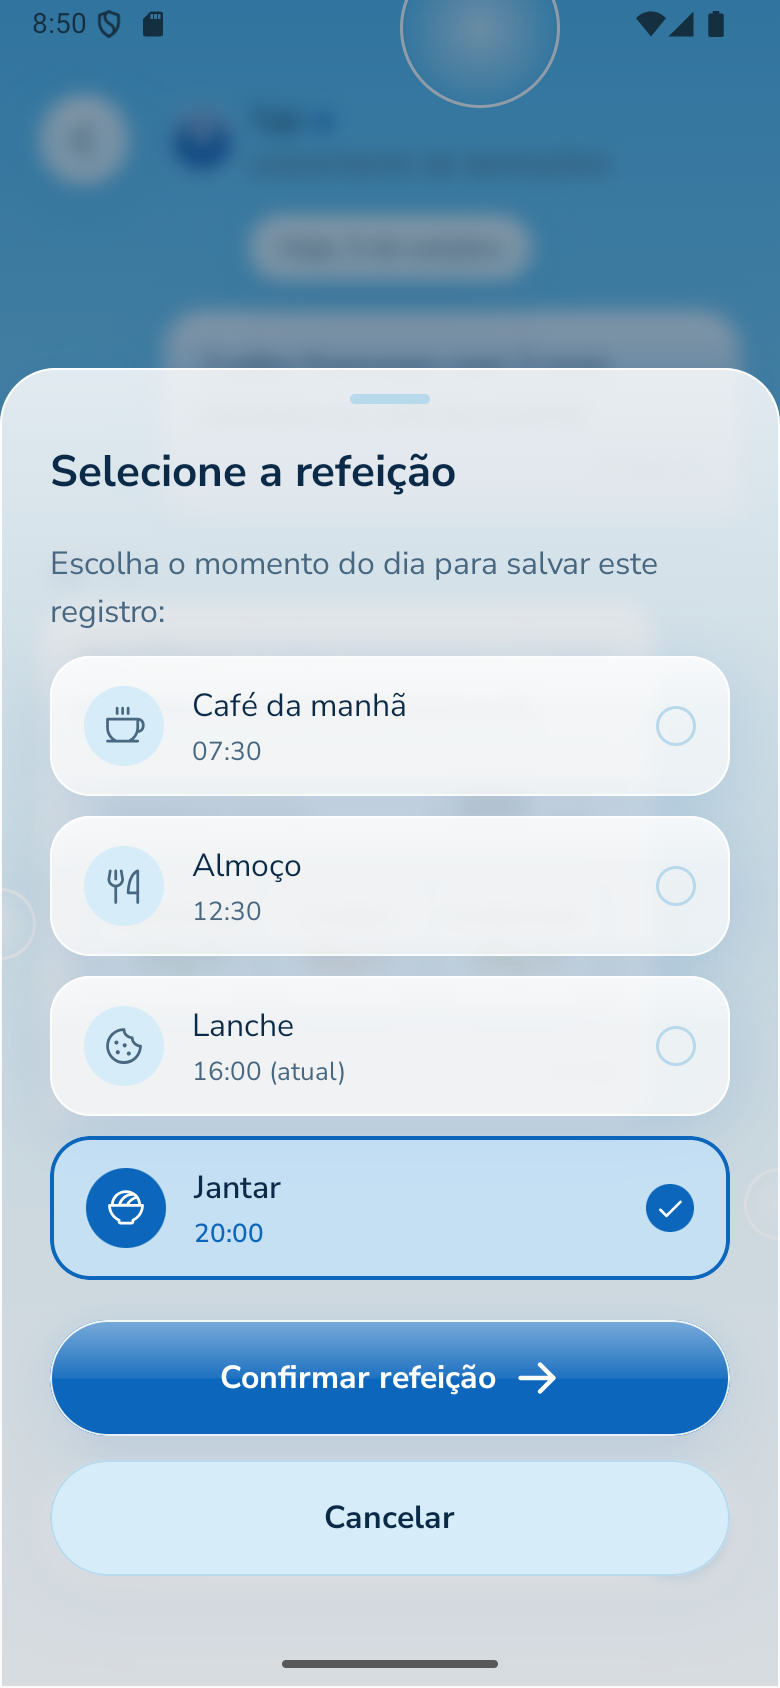
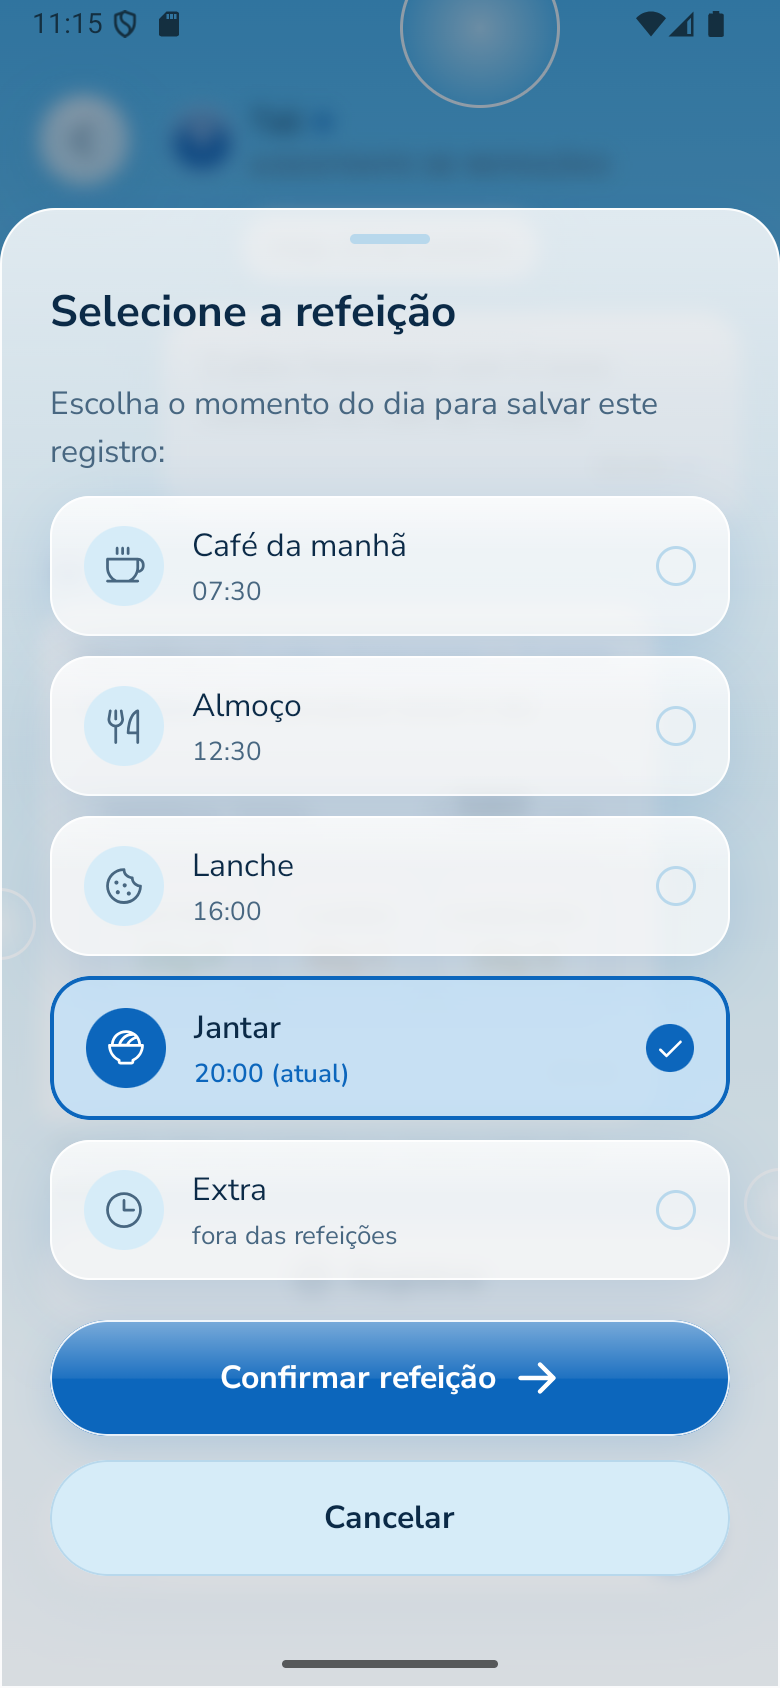
test(android): A73 gates chatT and chatGX on the D30 golds
GoldTest.chatT is a gate again (the sheet ends with the Extra row) and the
chatGX fixture carries the day balance. capture-chat.sh gains SCENES=a73
(chatT at 20:15, Jantar current); diff-gold follows the taller sheet;
capture-history.sh scrolls before the extra-on-timeline check.

diff --git a/apps/android/app/src/test/java/app/fibrai/android/ui/GoldTest.kt b/apps/android/app/src/test/java/app/fibrai/android/ui/GoldTest.kt
@@ -159,11 +159,11 @@ class GoldTest {
     @Test @Config(sdk = [34], qualifiers = "w390dp-h1406dp-xhdpi")
     fun homeE_light() = check("homeE", dark = false) { HomeHistory(HomeFixtures.home0, LocalDate.parse("2026-09-25"), kcal = emptyMap()) }
 
-    /** chatGX (D28, A72): an extra recorded by itself, its receipt and actions. */
-    @Test @Config(sdk = [34], qualifiers = "w390dp-h902dp-xhdpi")
+    /** chatGX (D28, A72; D30, A73): an extra recorded by itself, its receipt with the day balance and its actions. */
+    @Test @Config(sdk = [34], qualifiers = "w390dp-h943dp-xhdpi")
     fun chatGX_dark() = check("chatGX", dark = true) { Chat(ChatFixtures.chatGX) }
 
-    @Test @Config(sdk = [34], qualifiers = "w390dp-h902dp-xhdpi")
+    @Test @Config(sdk = [34], qualifiers = "w390dp-h943dp-xhdpi")
     fun chatGX_light() = check("chatGX", dark = false) { Chat(ChatFixtures.chatGX) }
 
     @Composable private fun HomeHistory(
@@ -212,15 +212,12 @@ class GoldTest {
     @Test @Config(sdk = [34], qualifiers = "w390dp-h844dp-xhdpi")
     fun chatQ_light() = check("chatQ", dark = false) { Chat(ChatFixtures.chatQ) }
 
-    /**
-     * chatT: A72 (ADR-058) adds the `Extra · fora das refeições` row at the end of the sheet; D28 kept the chatT gold without it
-     * (`Show extra` off). The spec wins (ADR-027): reported, not gated, until a design plan redraws chatT.
-     */
+    /** chatT (D30, A73): the Trocar sheet of a record, ending with the `Extra · fora das refeições` row (ADR-058). */
     @Test @Config(sdk = [34], qualifiers = "w390dp-h844dp-xhdpi")
-    fun chatT_dark() = check("chatT", dark = true, reportOnly = true) { Chat(ChatFixtures.chatT) }
+    fun chatT_dark() = check("chatT", dark = true) { Chat(ChatFixtures.chatT) }
 
     @Test @Config(sdk = [34], qualifiers = "w390dp-h844dp-xhdpi")
-    fun chatT_light() = check("chatT", dark = false, reportOnly = true) { Chat(ChatFixtures.chatT) }
+    fun chatT_light() = check("chatT", dark = false) { Chat(ChatFixtures.chatT) }
 
     /** A34: Substituir inside the conversation. */
     @Test @Config(sdk = [34], qualifiers = "w390dp-h844dp-xhdpi")

diff --git a/apps/android/app/src/test/java/app/fibrai/android/feature/chat/ChatFixtures.kt b/apps/android/app/src/test/java/app/fibrai/android/feature/chat/ChatFixtures.kt
@@ -75,7 +75,7 @@ object ChatFixtures {
         slots = slots,
     )
 
-    /** chatGX (D28, A72): an energy drink recorded by itself as an extra at 15:40, with the receipt actions. */
+    /** chatGX (D28, A72; D30, A73): an energy drink recorded by itself as an extra at 15:40, the day balance and the receipt actions. */
     val chatGX = ChatUiState(
         items = listOf(
             ChatItem.DateSeparator("Hoje, 3 de outubro"),
@@ -87,7 +87,7 @@ object ChatFixtures {
                 highlights = listOf("1 energético (350 ml)"),
                 estimate = EstimateView(160, 0, 40, 0, null, null),
             ),
-            ChatItem.Receipt(72, ReceiptKind.LOGGED, "extra", "15:40", 160, actions = recordActions, extra = true),
+            ChatItem.Receipt(72, ReceiptKind.LOGGED, "extra", "15:40", 160, actions = recordActions, extra = true, balance = "1.300 de 2.175 kcal · faltam 74 g de proteína"),
         ),
         emptyDay = false,
         slots = slots,

diff --git a/docs/qa/README.md b/docs/qa/README.md
@@ -63,7 +63,7 @@ A implementação de qualquer tela no client Android deve seguir este ciclo:
    ```bash
    adb shell wm size 780x1688 && adb shell wm density 320
    ```
-3. Capturar a tela pelo fluxo real (testTags viram resource-id) em `docs/qa/android/current/{theme}/<id>.png`. Onboarding (A71): fake + APK com `-PAPI_PUBLIC_URL=http://10.0.2.2:8765` + `tools/capture-onboarding.sh dark|light` (`splash`, `ob0`–`ob6` pelo chat real, a morte do processo no passo 9 que retoma no passo 9, um 500 forçado no fake que mostra `ob6` e **Tentar de novo** até `ob5`; os outros scripts chamam `QUICK=1`, que só faz o onboarding, sem capturas, e por isso também precisam do fake). Home (inclui interações): `tools/capture-home.sh dark|light`. Extras, faixa de 30 dias e dia anterior (A72: `home1`, `homeH`, `homeE`, `chatGX`, a entrada Extra do Trocar, um registro de ontem pelo Chat e uma captura de `homeW`, `homeC`, `homeK`, `homeP` com a faixa acima): fake + `tools/capture-history.sh dark|light`. Config (cfg, wipe, cfgS, cfgR + checagens de wipe/treino no Room e do reset: Room vazio, memória e fotos apagadas, lembretes cancelados, installation id mantido, O1 sem back stack): `tools/capture-config.sh dark|light`. Foto (chatA: anexo sem POST, ✕, troca, sair do Chat; chatF + galeria, câmera, 50 MP com EXIF → 2048 px < 2 MB, arquivo de 16 MB passa, WebP→JPEG): fake + `tools/capture-photo.sh dark|light` (AVD com `-camera-back virtualscene`). Substituir refeição dentro da conversa + Enter (A34, sem captura própria: o gold é o `chatU`): fake + `tools/capture-replace.sh dark|light`. Push (alarmes reais, Registrar/Pular, tela de bloqueio): `tools/capture-push.sh dark|light` (~6 min). Chat: `node tools/fake-chat-server.mjs` + APK com `-PAPI_PUBLIC_URL=http://10.0.2.2:8765` + `tools/capture-chat.sh dark|light` (`SCENES=v2` roda só onboarding + `chatS`, `chatR`, `chatM` do A29; `SCENES=a30` só onboarding + perguntas antes da estimativa, Forçar estimativa, teto de 3 rodadas, `chatQ` e `chatE` do A30, com o fake em `{"clarify": true}`; `SCENES=a32` só onboarding + histórico longo do A32: abre no fim sem rolagem (screenrecord), páginas de 20 até 60 dias, resposta com o fio rolado para cima sem pulo, câmera fecha o teclado; `SCENES=a34` só onboarding + registro autônomo do A34, com o fake em `{"record": "auto"|"ask"|"none"}` e `{"skip": "Jan"}`: registro sem toque, Excluir, Trocar refeição e Desfazer, Substituir dentro da conversa e Desfazer, Editar, Registrar e `Não registrado`, pulo por texto, outro dia sem registro, e `chatG`, `chatU`, `chatD` semeados; muda o relógio do aparelho por `cmd alarm set-time` para gravar o café em 3 dias passados e devolve o relógio automático no fim; `SCENES=a59` só onboarding + pulos ao lado de outras ações do A59, com o fake em `{"skips": ["Alm"]}`: refeição e pulo na mesma mensagem com dois recibos, pulo de refeição registrada com Excluir e pular, Desfazer, Manter registro e expiração no próximo envio, e `chatSK`, `chatSD` semeados; `SCENES=a60` só onboarding + A60: escolha acima da janela (`chatRB`, Pode passar sobrevive a recriar, Ajustar manda `fit_kcal`), respostas formatadas (`chatR`, `chatE`, `chatRK`, histórico e timeline sem marcadores, marcação quebrada literal), reserva (`chatRL`, recibo com a diferença ao plano, Desfazer devolve a reserva, `homeP`), tom em Config (`cfg`, `cfgT`, `profile.tone` no fio) e fechamentos de domingo 22:05 pelo alarme real (notificações, uma vez por dia e semana, `homeC`, `homeK`, sem rede e nova tentativa, cartão recolhido no dia seguinte); a O5 sai do `tools/capture-onboarding.sh`; `SCENES=a61` só onboarding + A61: as ações de um plano ficam abaixo dele e rolam com o fio enquanto o composer fica, toque longo seleciona (1), toque na resposta soma (2), toque no recibo não muda nada (`chatCP`), Copiar encerra a seleção e, com `PASTE=1`, o colar no composer traz as duas mensagens em texto puro (deixa o Gboard no modo de teclado físico até o AVD reiniciar sem salvar o snapshot), voltar e ✕ encerram). Captura de tela com rolagem (A61, Android 12+): `tools/capture-scroll.sh dark|light` abre Home (linha do tempo cheia e cartão de fechamento), Chat (fio maior que a tela) e Config, tira a captura do sistema, toca em Capture more / Capturar mais, confere que o editor de captura longa abre e salva; as imagens longas ficam fora do repositório. Manual, com o Android CLI (skill `android-cli`):
+3. Capturar a tela pelo fluxo real (testTags viram resource-id) em `docs/qa/android/current/{theme}/<id>.png`. Onboarding (A71): fake + APK com `-PAPI_PUBLIC_URL=http://10.0.2.2:8765` + `tools/capture-onboarding.sh dark|light` (`splash`, `ob0`–`ob6` pelo chat real, a morte do processo no passo 9 que retoma no passo 9, um 500 forçado no fake que mostra `ob6` e **Tentar de novo** até `ob5`; os outros scripts chamam `QUICK=1`, que só faz o onboarding, sem capturas, e por isso também precisam do fake). Home (inclui interações): `tools/capture-home.sh dark|light`. Extras, faixa de 30 dias e dia anterior (A72: `home1`, `homeH`, `homeE`, `chatGX`, a entrada Extra do Trocar, um registro de ontem pelo Chat e uma captura de `homeW`, `homeC`, `homeK`, `homeP` com a faixa acima): fake + `tools/capture-history.sh dark|light`. Config (cfg, wipe, cfgS, cfgR + checagens de wipe/treino no Room e do reset: Room vazio, memória e fotos apagadas, lembretes cancelados, installation id mantido, O1 sem back stack): `tools/capture-config.sh dark|light`. Foto (chatA: anexo sem POST, ✕, troca, sair do Chat; chatF + galeria, câmera, 50 MP com EXIF → 2048 px < 2 MB, arquivo de 16 MB passa, WebP→JPEG): fake + `tools/capture-photo.sh dark|light` (AVD com `-camera-back virtualscene`). Substituir refeição dentro da conversa + Enter (A34, sem captura própria: o gold é o `chatU`): fake + `tools/capture-replace.sh dark|light`. Push (alarmes reais, Registrar/Pular, tela de bloqueio): `tools/capture-push.sh dark|light` (~6 min). Chat: `node tools/fake-chat-server.mjs` + APK com `-PAPI_PUBLIC_URL=http://10.0.2.2:8765` + `tools/capture-chat.sh dark|light` (`SCENES=v2` roda só onboarding + `chatS`, `chatR`, `chatM` do A29; `SCENES=a30` só onboarding + perguntas antes da estimativa, Forçar estimativa, teto de 3 rodadas, `chatQ` e `chatE` do A30, com o fake em `{"clarify": true}`; `SCENES=a32` só onboarding + histórico longo do A32: abre no fim sem rolagem (screenrecord), páginas de 20 até 60 dias, resposta com o fio rolado para cima sem pulo, câmera fecha o teclado; `SCENES=a34` só onboarding + registro autônomo do A34, com o fake em `{"record": "auto"|"ask"|"none"}` e `{"skip": "Jan"}`: registro sem toque, Excluir, Trocar refeição e Desfazer, Substituir dentro da conversa e Desfazer, Editar, Registrar e `Não registrado`, pulo por texto, outro dia sem registro, e `chatG`, `chatU`, `chatD` semeados; muda o relógio do aparelho por `cmd alarm set-time` para gravar o café em 3 dias passados e devolve o relógio automático no fim; `SCENES=a59` só onboarding + pulos ao lado de outras ações do A59, com o fake em `{"skips": ["Alm"]}`: refeição e pulo na mesma mensagem com dois recibos, pulo de refeição registrada com Excluir e pular, Desfazer, Manter registro e expiração no próximo envio, e `chatSK`, `chatSD` semeados; `SCENES=a60` só onboarding + A60: escolha acima da janela (`chatRB`, Pode passar sobrevive a recriar, Ajustar manda `fit_kcal`), respostas formatadas (`chatR`, `chatE`, `chatRK`, histórico e timeline sem marcadores, marcação quebrada literal), reserva (`chatRL`, recibo com a diferença ao plano, Desfazer devolve a reserva, `homeP`), tom em Config (`cfg`, `cfgT`, `profile.tone` no fio) e fechamentos de domingo 22:05 pelo alarme real (notificações, uma vez por dia e semana, `homeC`, `homeK`, sem rede e nova tentativa, cartão recolhido no dia seguinte); a O5 sai do `tools/capture-onboarding.sh`; `SCENES=a61` só onboarding + A61: as ações de um plano ficam abaixo dele e rolam com o fio enquanto o composer fica, toque longo seleciona (1), toque na resposta soma (2), toque no recibo não muda nada (`chatCP`), Copiar encerra a seleção e, com `PASTE=1`, o colar no composer traz as duas mensagens em texto puro (deixa o Gboard no modo de teclado físico até o AVD reiniciar sem salvar o snapshot), voltar e ✕ encerram; `SCENES=a73` só onboarding + `chatT` semeado, a folha Trocar que termina na linha Extra). Captura de tela com rolagem (A61, Android 12+): `tools/capture-scroll.sh dark|light` abre Home (linha do tempo cheia e cartão de fechamento), Chat (fio maior que a tela) e Config, tira a captura do sistema, toca em Capture more / Capturar mais, confere que o editor de captura longa abre e salva; as imagens longas ficam fora do repositório. Manual, com o Android CLI (skill `android-cli`):
    ```bash
    android screen capture -o docs/qa/android/current/{theme}/<id>.png
    ```

diff --git a/docs/android/plans/completed/a73-chat-gold-gates.md b/docs/android/plans/completed/a73-chat-gold-gates.md
@@ -1,0 +1,68 @@
+# Plan — A73 `chatT` and `chatGX` gated again on the D30 golds
+
+- Status: Concluído
+- Date: 10/10/2026
+- Owning context: `android`
+- Affected code: `apps/android/` tests only (`ui/GoldTest.kt`, `feature/chat/ChatFixtures.kt`), the capture tooling (`tools/capture-history.sh`, `tools/diff-gold.mjs`), `docs/qa/android/current/{dark,light}/{chatT,chatGX}.png`. No production code.
+- Prerequisites: [D30](../../../design/plans/completed/d30-chat-extra-row-and-balance-line.md) `Concluído` (the new `chatT` and `chatGX` golds exported); [A72](../pending_manual_validation/a72-extras-and-history.md) merged.
+
+Authorization, lifecycle, cancellation and deferral: `docs/sdd/README.md`. Approval: `Aprovo o plano docs/android/plans/a73-chat-gold-gates.md. Implemente o plano aprovado.`
+
+## Objective
+
+End the two spec-over-gold conflicts that A72 left open ([ADR-027](../../adrs/ADR-027-golds-divergentes.md)): `GoldTest.chatT` is report-only since the Trocar sheet gained the `Extra · fora das refeições` row, and the `chatGX` emulator tail is over 2 % because the receipt carries the day balance line. With the D30 golds both become gates again, so a regression in the sheet or the extra receipt fails the build instead of being reported.
+
+## Scope
+
+1. **`GoldTest.chatT`**: `reportOnly` removed in both themes; the KDoc that explains the report goes.
+2. **`ChatFixtures.chatGX`**: the receipt gains the balance of the D30 sample (`1.300 de 2.175 kcal · faltam 74 g de proteína`, or the copy D30 hands over), so `GoldTest.chatGX` draws what the app shows; the frame height follows the new gold.
+3. **Emulator** (fake server, `tools/capture-history.sh dark|light`):
+   - the scene that opens Trocar on the extra receipt saves it as `chatT` in `docs/qa/android/current/{theme}/` (today an evidence file);
+   - `tools/diff-gold.mjs`: the `chatT` footer region follows the taller sheet; `chatGX` keeps the header gate and its thread tail passes within 2 %;
+   - the seeded day makes the balance line read the gold copy, or the difference is the number only and stays within 2 %.
+4. **No spec change:** the Chat spec already describes both states; the QA README inventory keeps the same ids.
+
+## Out of scope
+
+- Production code, behavior or copy. Other golds (`chatTI`, `chatF`, `chatG`, `ob1`). Model calls (0 in this plan).
+
+## Validation
+
+1. `./gradlew :app:testDevDebugUnitTest` and `:app:verifyRoborazziDevDebug`: pass, with `GoldTest.chatT_*` and `GoldTest.chatGX_*` gating (blurred diff ≤ 2 %).
+2. Emulator, both themes, only the two touched states (partial rule): `chatT` and `chatGX` captured and `node tools/diff-gold.mjs` within 2 %.
+3. `node tools/check-docs.mjs` passes.
+
+## Results
+
+Delivered on 10/10/2026, right after the D30 export ([#245](https://github.com/nicolasteixeira3856/dieta-bot/pull/245)).
+
+- **`GoldTest.chatT`** gates again in both themes (`reportOnly` and its KDoc removed).
+- **`ChatFixtures.chatGX`**: the receipt carries `1.300 de 2.175 kcal · faltam 74 g de proteína`; `GoldTest.chatGX` renders at 943 dp, the new gold height.
+- **Capture tooling.**
+  - `tools/capture-chat.sh` gains `SCENES=a73`: quick onboarding, then the seeded gold conversation with no slot, Registrar opens Trocar, the last meal is picked and the screen is saved as `chatT`. `seed_gold` moved out of the full-run block so the scene can call it. Deviation: the plan put this capture in `capture-history.sh`, but the Trocar there opens from an extra receipt, with `Extra` selected and no `(atual)`, so it does not match the `chatT` state. The `chatT` state is an estimate without a slot, already seeded by `capture-chat.sh`.
+  - The scene sets the device clock to 20:15 in São Paulo, because the gold marks Jantar `(atual)` and the app picks the current meal by the hour. A morning run put `(atual)` on Café (light 2.11 %). Auto time comes back at the end of the script, as in the A34 scene.
+  - `tools/diff-gold.mjs`: the `chatT` footer zone grows from 1368 to 1528 px (the 716 dp sheet plus 48 dp).
+  - `tools/capture-history.sh`: a swipe before the "the extra shows on today's timeline" check. The timeline is ordered by time, so after about 07:30 the extra sits below Café and off the screen. The check failed in both themes this morning; it passed in the A72 run at 00:46.
+- **QA README:** the `SCENES=a73` scene in the capture list.
+
+Validation:
+
+1. `./gradlew :app:testDevDebugUnitTest :app:verifyRoborazziDevDebug`: 727 tests, 0 failures, Roborazzi passes. `GoldTest` blurred diff:
+   - `chatT`: 0.00 % in both themes, gated. Before: 7.63 % dark / 23.44 % light, reported only.
+   - `chatGX`: 0.01 % in both themes.
+   - `chatTI`: 0.29 % dark / 0.76 % light, unchanged (no Extra row on an addition).
+2. Emulator (Medium_Phone, 780 × 1688 @ 320, devDebug against `tools/fake-chat-server.mjs`), only the two touched states (partial rule):
+   - `SCENES=a73 tools/capture-chat.sh`: `chatT` 0.09 % dark / 1.99 % light. The light margin is the seeded thread showing through the glass sheet, which differs from the gold's thread.
+   - `tools/capture-history.sh`, the `chatGX` gates:
+
+     | | Dark | Light | Before |
+     |---|---|---|---|
+     | Header | 0.00 % | 0.00 % | — |
+     | Thread tail | 0.36 % | 0.27 % | 6.06 % / 13.24 % |
+
+   - The tail compares only the bottom of the thread because the phone's thread is shorter than the gold frame; the whole screen stays reported, as for the other long threads.
+   - The history script's other captures (`home1`, `homeH`, `homeE`, `homeW`, `homeC`, `homeK`, `homeP`) were restored from `develop`, outside this plan.
+   - All the script's checks pass after the swipe fix, verified in dark.
+3. `node tools/check-docs.mjs`: passes.
+
+No model calls. Nothing left to validate by hand: the plan changes only tests and capture tools.

diff --git a/docs/design/plans/completed/d30-chat-extra-row-and-balance-line.md b/docs/design/plans/completed/d30-chat-extra-row-and-balance-line.md
@@ -48,7 +48,7 @@ Code: `apps/android/app/src/main/java/app/fibrai/android/feature/chat/` (`ChatSc
    - `node tools/export-figma.mjs --only chatT,chatGX`;
    - the inventory of `docs/qa/README.md` keeps the same ids (no new gold);
    - `node tools/check-figma.mjs`.
-6. **Hand-over** to [A73](../../../android/plans/a73-chat-gold-gates.md): the new frame heights and the balance copy of the sample.
+6. **Hand-over** to [A73](../../../android/plans/completed/a73-chat-gold-gates.md): the new frame heights and the balance copy of the sample.
 
 ## Out of scope
 
@@ -108,6 +108,6 @@ Figma MCP budget: 8 of 40 calls (whoami, 2 skill reads, 2 reads (the first one o
 - `node tools/export-figma.mjs --only chatT,chatGX`: `chatT` 780 × 1688 (16.49 % of the pixels changed in Light, 4.95 % in Dark), `chatGX` 780 × 1804 → 780 × 1886 (both themes).
 - Inventory of `docs/qa/README.md`: unchanged (same ids).
 - `node tools/check-figma.mjs`: 114 golds verified (57 dark + 57 light). `node tools/check-docs.mjs` passes.
-- **Hand-over to [A73](../../../android/plans/a73-chat-gold-gates.md):** `chatGX` is 943 px tall, its receipt 272 px with the balance in two lines under the chip; `chatT` stays 390 × 844 with the sheet at y 128 (716 px), the Extra row 70 px after Jantar. `web/` does not use either gold.
+- **Hand-over to [A73](../../../android/plans/completed/a73-chat-gold-gates.md):** `chatGX` is 943 px tall, its receipt 272 px with the balance in two lines under the chip; `chatT` stays 390 × 844 with the sheet at y 128 (716 px), the Extra row 70 px after Jantar. `web/` does not use either gold.
 
 Figma MCP budget: 8 of 40 calls in total (no call after the review: the export uses the REST API).

diff --git a/docs/android/README.md b/docs/android/README.md
@@ -115,7 +115,6 @@ Histórico em `docs/decisions/`: [002](../decisions/002-android-client.md), [004
 
 ### Planos e validação
 
-- [A73 — `chatT` and `chatGX` gated again on the D30 golds](plans/a73-chat-gold-gates.md): awaiting approval, after D30 ([design plans](../design/plans/README.md)).
 - [A71 — Conversational onboarding in the app](plans/pending_manual_validation/a71-conversational-onboarding.md): delivered, awaiting the owner's device validation ([ADR-057](../produto/adrs/ADR-057-conversational-onboarding.md)).
 - [A72 — Extras, the 30-day strip and a record in a past day](plans/pending_manual_validation/a72-extras-and-history.md): delivered, awaiting the owner's device validation ([ADR-058](../produto/adrs/ADR-058-extras-and-history.md)).
 - [A70 — Decision line, fit and day projection per option in the plan bubble](plans/pending_manual_validation/a70-option-fit-and-projection.md): delivered, awaiting the owner's device smoke on a dev build.

diff --git a/docs/design/plans/README.md b/docs/design/plans/README.md
@@ -203,7 +203,7 @@ The app shows two states that their golds do not draw: the `Extra` row of Trocar
 | Step | Plan | Depends on |
 |---|---|---|
 | Design | D30 — `chatT` with the Extra row, `chatGX` with the balance line, delivered ([history](completed/)) | D28, D29 |
-| Client | [A73](../../android/plans/a73-chat-gold-gates.md) — `chatT` and `chatGX` gated again | D30, A72 merged |
+| Client | A73 — `chatT` and `chatGX` gated again, delivered ([history](../../android/plans/completed/)) | D30, A72 merged |
 
 ## History
 
